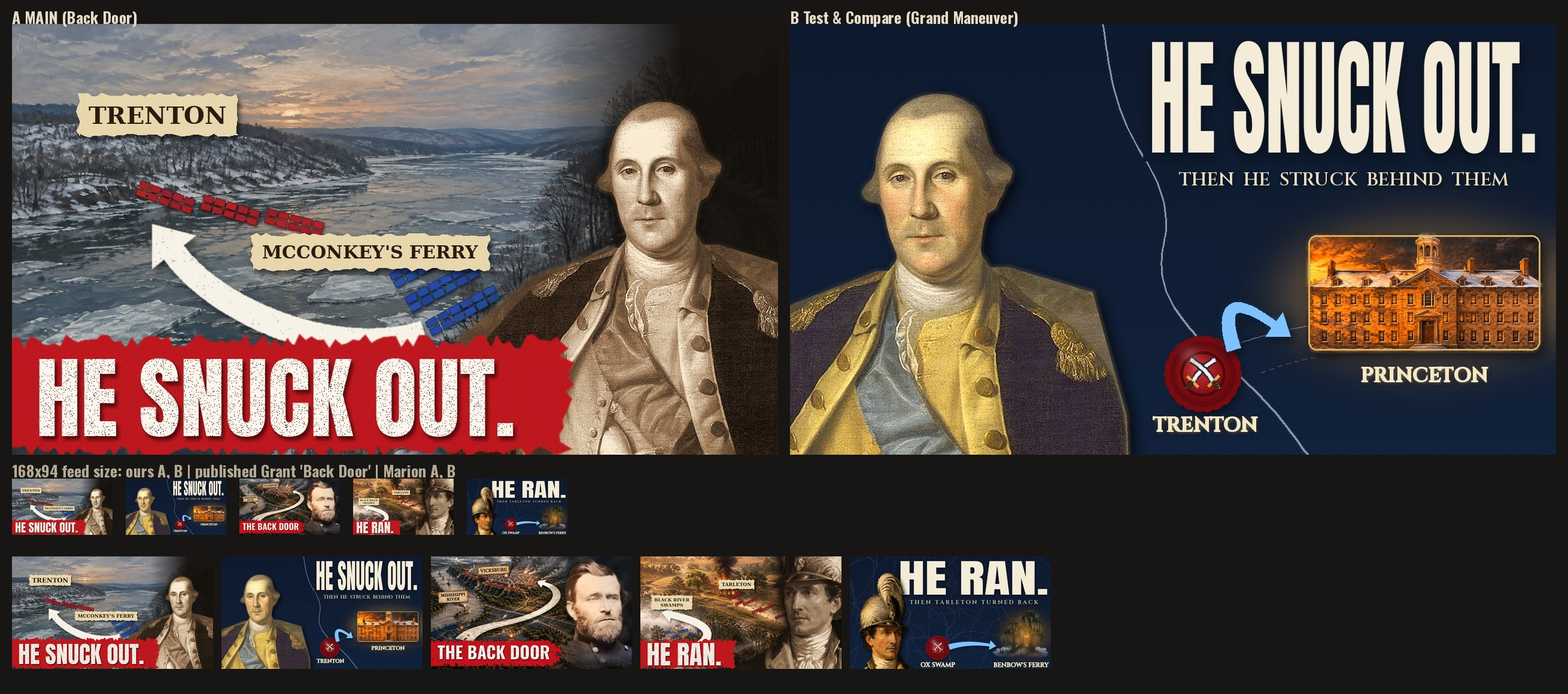
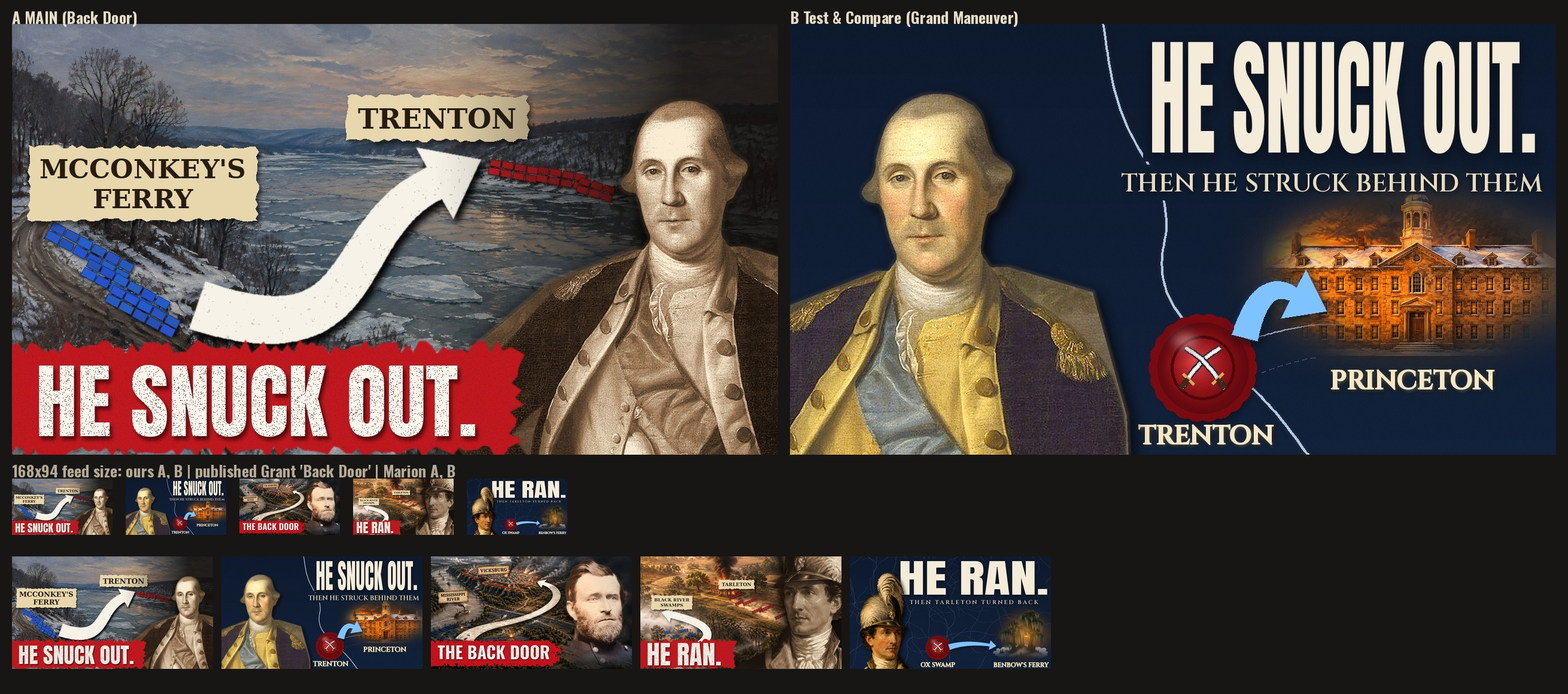
Washington: thumbnails v2 after critic 1
Claude-Session: https://claude.ai/code/session_011uJnjBmWWPVu63DLzFZfyj

diff --git a/washington/tools/make_thumbs_washington.py b/washington/tools/make_thumbs_washington.py
@@ -38,32 +38,36 @@ def place(im, b, x0, y0, rim_col, rim_side, shadow=0.75, rim=0.3):
     im.alpha_composite(b, (x0, y0)); im.alpha_composite(r, (x0, y0)); return im
 
 # ====================================== A: BACK DOOR ======================================
+def boat(im, c, ang, L=70):
+    x, y = c; ca, sa = math.cos(ang), math.sin(ang); lay = Image.new("RGBA", im.size, (0, 0, 0, 0)); d = ImageDraw.Draw(lay); sh = Image.new("RGBA", im.size, (0, 0, 0, 0)); ds = ImageDraw.Draw(sh)
+    pts = [(-L / 2, 0), (-L / 3, 8), (L / 3, 8), (L / 2, 0), (L / 3, -8), (-L / 3, -8)]; P = [(x + a * ca - b * sa, y + a * sa + b * ca) for a, b in pts]
+    ds.polygon([(p[0] + 4, p[1] + 6) for p in P], fill=(0, 0, 0, 170)); d.polygon(P, fill=(40, 28, 20, 255), outline=(120, 96, 70, 255))
+    im = Image.alpha_composite(im, sh.filter(ImageFilter.GaussianBlur(3))); return Image.alpha_composite(im, lay)
+
 def variant_a():
-    im = Image.open(T + "bg_vidiq_delaware.jpg").convert("RGB").resize((W, H), Image.LANCZOS)
-    im = ImageEnhance.Contrast(ImageEnhance.Color(im).enhance(0.85)).enhance(1.12).convert("RGBA")
-    RED, BLUE = (176, 34, 40), (38, 78, 168)
-    # Hessian garrison on the far (Trenton) bank, upper left, along the snowy ridge
-    for (x, y, c, r, a_) in [(215, 262, 5, 2, 0.34), (322, 285, 5, 2, 0.30), (428, 308, 5, 2, 0.26)]:
-        im = formation(im, (x, y), RED, c, r, cw=17, ch=11, gap=3, ang=a_)
-    # Washington's column landing on the near bank, on the snowy slope at lower right
-    for (x, y, c, r) in [(630, 418, 6, 2), (656, 458, 6, 2), (690, 498, 6, 2)]:
-        im = formation(im, (x, y), BLUE, c, r, cw=19, ch=12, gap=3, ang=-0.5)
-    # ONE sweep arrow: ferry landing -> across the river -> round to the far bank
-    im = grunge_arrow(im, [(690, 520), (540, 570), (300, 470), (250, 345)], 50, 40)
-    im = parchment(im, (400, 352), ["MCCONKEY'S FERRY"], 30); im = parchment(im, (110, 118), ["TRENTON"], 40)
+    # background MIRRORED so the crossing reads west (PA, left) -> east (NJ, right); Trenton lies downstream (far, right bank)
+    im = ImageOps.mirror(Image.open(T + "bg_vidiq_delaware.jpg").convert("RGB")).resize((W, H), Image.LANCZOS)
+    im = ImageEnhance.Contrast(ImageEnhance.Color(im).enhance(1.0)).enhance(1.2); im = ImageEnhance.Brightness(im).enhance(0.9).convert("RGBA")
+    RED, BLUE = (200, 30, 36), (40, 92, 205)
+    for (x, y, c, r, a_) in [(800, 226, 4, 2, 0.18), (880, 238, 4, 2, 0.18), (950, 256, 3, 2, 0.3)]:   # Hessians at Trenton, NJ bank ridge
+        im = formation(im, (x, y), RED, c, r, cw=18, ch=11, gap=3, ang=a_)
+    for (x, y, c, r, a_) in [(70, 330, 6, 2, 0.5), (130, 392, 6, 2, 0.5), (170, 436, 5, 2, 0.5)]:      # Washington at McConkey's Ferry, PA bank slope
+        im = formation(im, (x, y), BLUE, c, r, cw=23, ch=14, gap=3, ang=a_)
+    im = grunge_arrow(im, [(310, 470), (640, 580), (520, 290), (772, 246)], 84, 58, shadow=(235, 7, 10, 5))
+    im = parchment(im, (28, 205), ["MCCONKEY'S", "FERRY"], 44); im = parchment(im, (560, 120), ["TRENTON"], 46)
     pan = Image.new("RGBA", (W, H), (0, 0, 0, 0)); pd = ImageDraw.Draw(pan)
-    for x in range(880, W): pd.line([(x, 0), (x, H)], fill=(18, 14, 10, int(240 * min(1, (x - 880) / 240))))
+    for x in range(700, W): pd.line([(x, 0), (x, H)], fill=(16, 12, 9, int(215 * min(1, ((x - 700) / 420) ** 1.2))))
     im = Image.alpha_composite(im, pan)
-    b, (fx, fy) = cutout(235, "sepia"); im = place(im, b, int(1075 - fx), int(250 - fy), (255, 200, 140), "left", shadow=0.85)
-    f = ImageFont.truetype(AN, 150); tw = ImageDraw.Draw(im).textlength(WORD, font=f)
-    bx0, by0, bx1, by1 = -10, 530, int(40 + tw + 70), 714; r = np.random.default_rng(8)
+    b, (fx, fy) = cutout(240, "sepia"); im = place(im, b, int(1115 - fx), int(250 - fy), (255, 200, 140), "left", shadow=0.85)
+    f = ImageFont.truetype(AN, 138); tw = ImageDraw.Draw(im).textlength(WORD, font=f)
+    bx0, by0, bx1, by1 = -10, 540, int(40 + tw + 50), 714; r = np.random.default_rng(8)
     m = Image.new("L", (W, H), 0); top = [(x, by0 + int(r.integers(-12, 13))) for x in range(bx0, bx1 + 1, 10)]; bot = [(x, by1 + int(r.integers(-10, 11))) for x in range(bx1, bx0 - 1, -10)]
     right = [(bx1 + int(r.integers(0, 30)), y) for y in range(by0, by1 + 1, 12)]
     ImageDraw.Draw(m).polygon(top + right + bot, fill=255)
     band = Image.new("RGBA", (W, H), (192, 24, 30, 255)); n = Image.effect_noise((W, H), 40).convert("L")
     band = Image.composite(Image.new("RGBA", (W, H), (160, 16, 22, 255)), band, n.point(lambda v: 110 if v > 160 else 0))
     im.paste(band, (0, 0), m.filter(ImageFilter.GaussianBlur(1)))
-    tm = Image.new("L", (W, H), 0); ImageDraw.Draw(tm).text((40, 625), WORD, font=f, fill=255, anchor="lm")
+    tm = Image.new("L", (W, H), 0); ImageDraw.Draw(tm).text((40, 630), WORD, font=f, fill=255, anchor="lm")
     tm = ImageChops.multiply(tm, Image.effect_noise((W, H), 70).convert("L").point(lambda v: 0 if v > 238 else 255))
     sh = Image.new("RGBA", (W, H), (0, 0, 0, 0)); sh.paste(Image.new("RGBA", (W, H), (40, 0, 0, 180)), (4, 6), tm); im = Image.alpha_composite(im, sh.filter(ImageFilter.GaussianBlur(3)))
     im.paste(Image.new("RGBA", (W, H), (250, 246, 238, 255)), (0, 0), tm)
@@ -75,15 +79,15 @@ def variant_b():
     n = Image.effect_noise((W, H), 22).convert("RGB"); base = Image.blend(base, ImageChops.overlay(base, n), 0.12); im = base.convert("RGBA")
     f0 = ImageFont.truetype(AN, 215); tmp = Image.new("L", (2000, 330), 0); ImageDraw.Draw(tmp).text((0, 0), WORD, font=f0, fill=255); glyph = tmp.crop(tmp.getbbox())
     glyph = glyph.resize((min(640, int(glyph.width * 1.3)), glyph.height), Image.LANCZOS); gx, gy = int(925 - glyph.width / 2), 28
-    sub = TWIST; fs = ImageFont.truetype(SER, 31); s = " ".join(" ".join(w) if False else w for w in sub.split()); s = "  ".join(sub.split()); sy_ = gy + glyph.height + 22
-    tm = Image.new("L", (W, H), 0); tm.paste(glyph, (gx, gy)); ImageDraw.Draw(tm).text((925, sy_), s, font=fs, fill=255, anchor="ma")
+    sub = TWIST; fs = ImageFont.truetype(SER, 42); s = " ".join(" ".join(w) if False else w for w in sub.split()); s = " ".join(sub.split()); sy_ = gy + glyph.height + 22
+    tm = Image.new("L", (W, H), 0); tm.paste(glyph, (gx, gy)); ImageDraw.Draw(tm).text((905, sy_), s, font=fs, fill=255, anchor="ma")
     # faint hairline rivers: Delaware (down the right-centre), Assunpink (short branch), roads to Princeton (dashed hairlines)
     lay = Image.new("RGBA", (W, H), (0, 0, 0, 0)); d = ImageDraw.Draw(lay)
     def chaikin(p, n=4):
         for _ in range(n): p = [p[0]] + [q for a, b in zip(p, p[1:]) for q in ((0.75 * a[0] + 0.25 * b[0], 0.75 * a[1] + 0.25 * b[1]), (0.25 * a[0] + 0.75 * b[0], 0.25 * a[1] + 0.75 * b[1]))] + [p[-1]]
         return p
     delaware = chaikin([(520, -20), (545, 150), (640, 300), (610, 430), (690, 540), (790, 620), (880, 740)])
-    d.line(delaware, fill=(207, 228, 255, 150), width=3, joint="curve"); d.line(chaikin([(705, 548), (790, 520), (880, 500), (960, 505)]), fill=(207, 228, 255, 140), width=2)  # Assunpink
+    d.line(delaware, fill=(207, 228, 255, 215), width=4, joint="curve"); d.line(chaikin([(705, 548), (790, 520), (880, 500), (960, 505)]), fill=(207, 228, 255, 200), width=3)  # Assunpink
     for _ in range(0): pass
     g = lay.filter(ImageFilter.GaussianBlur(5)); lay = Image.alpha_composite(g, lay)
     rd = Image.new("RGBA", (W, H), (0, 0, 0, 0)); rdd = ImageDraw.Draw(rd)
@@ -93,25 +97,25 @@ def variant_b():
         for k in range(int(L // 14)): rdd.line([(x0 + (x1 - x0) * k * 14 / L, y0 + (y1 - y0) * k * 14 / L), (x0 + (x1 - x0) * (k * 14 + 7) / L, y0 + (y1 - y0) * (k * 14 + 7) / L)], fill=(190, 205, 225, 90), width=2)
     lay = Image.alpha_composite(lay, rd)
     lay.putalpha(ImageChops.subtract(lay.split()[3], tm.filter(ImageFilter.MaxFilter(31)))); im = Image.alpha_composite(im, lay)
-    sx, sy = 690, 585
+    sx, sy = 690, 575
     # payoff = painted Nassau Hall (vidIQ), crop of the building, soft vignette + thin gold frame
-    fr = Image.open(T + "icon_vidiq_nassau.jpg").convert("RGB").crop((170, 150, 1830, 1000)); fw, fh = 400, 205; fr = fr.resize((fw, fh), Image.LANCZOS)
+    fr = Image.open(T + "icon_vidiq_nassau.jpg").convert("RGB").crop((170, 150, 1830, 1000)); fw, fh = 500, 270; fr = fr.resize((fw, fh), Image.LANCZOS)
     fr = ImageEnhance.Contrast(ImageEnhance.Color(fr).enhance(1.1)).enhance(1.05)
-    msk = Image.new("L", (fw, fh), 0); ImageDraw.Draw(msk).rounded_rectangle([6, 6, fw - 7, fh - 7], radius=14, fill=255); msk = msk.filter(ImageFilter.GaussianBlur(3))
-    ix, iy = 1060, 450; px, py = int(ix - fw / 2), int(iy - fh / 2); fr = fr.convert("RGBA"); fr.putalpha(msk)
+    msk = Image.new("L", (fw, fh), 0); ImageDraw.Draw(msk).ellipse([36, 22, fw - 37, fh - 23], fill=255); msk = msk.filter(ImageFilter.GaussianBlur(24))
+    ix, iy = 1040, 420; px, py = int(ix - fw / 2), int(iy - fh / 2); fr = fr.convert("RGBA"); fr.putalpha(msk)
     bloom = Image.new("RGBA", (W, H), (0, 0, 0, 0)); ImageDraw.Draw(bloom).ellipse([ix - 280, iy - 150, ix + 280, iy + 150], fill=(255, 170, 70, 80)); im = Image.alpha_composite(im, bloom.filter(ImageFilter.GaussianBlur(45)))
     shd = Image.new("RGBA", (W, H), (0, 0, 0, 0)); sb_ = Image.new("RGBA", fr.size, (0, 0, 0, 255)); sb_.putalpha(msk.point(lambda v: int(v * 0.7))); shd.alpha_composite(sb_, (px + 6, py + 10)); im = Image.alpha_composite(im, shd.filter(ImageFilter.GaussianBlur(9)))
-    im.alpha_composite(fr, (px, py)); ImageDraw.Draw(im).rounded_rectangle([px + 6, py + 6, px + fw - 7, py + fh - 7], radius=14, outline=(214, 176, 96, 255), width=3)
-    im = glossy_seal(im, (sx, sy), 54)
+    im.alpha_composite(fr, (px, py))
+    im = glossy_seal(im, (sx, sy), 76)
     # ONE glowing blue arrow: from Trenton round (behind the British) to Princeton
-    im = taper_arrow(im, [(sx + 52, sy - 40), (sx + 10, sy - 175), (px - 14, py + fh - 20)], 24, 13, (126, 195, 255, 255), glow=(70, 150, 240, 190))
-    fl = ImageFont.truetype(SER, 34)
-    for t, (x, y) in [("TRENTON", (sx + 5, sy + 62)), ("PRINCETON", (ix, py + fh + 12))]:
+    im = taper_arrow(im, [(sx + 70, sy - 50), (sx + 100, sy - 170), (px + 70, py + fh - 90)], 44, 24, (126, 195, 255, 255), glow=(70, 150, 240, 190))
+    fl = ImageFont.truetype(SER, 44)
+    for t, (x, y) in [("TRENTON", (sx + 5, sy + 84)), ("PRINCETON", (ix, py + fh + 12))]:
         g = Image.new("RGBA", (W, H), (0, 0, 0, 0)); ImageDraw.Draw(g).text((x, y), t, font=fl, fill=(255, 210, 140, 160), anchor="ma"); im = Image.alpha_composite(im, g.filter(ImageFilter.GaussianBlur(6)))
         im = text_shadow(im, (x, y), t, fl, (246, 232, 196), "ma", off=(2, 3), blur=3, op=220, stroke_width=1, stroke_fill=(246, 232, 196))
     sh = Image.new("RGBA", (W, H), (0, 0, 0, 0)); shg = Image.new("RGBA", glyph.size, (0, 0, 0, 255)); shg.putalpha(glyph.point(lambda v: int(v * 0.5))); sh.alpha_composite(shg, (gx, gy + 8))
     im = Image.alpha_composite(im, sh.filter(ImageFilter.GaussianBlur(12))); col = Image.new("RGBA", glyph.size, (244, 236, 216, 255)); col.putalpha(glyph); im.alpha_composite(col, (gx, gy))
-    im = text_shadow(im, (925, sy_), s, fs, (232, 220, 192), "ma", off=(0, 3), blur=4, op=180)
+    im = text_shadow(im, (905, sy_), s, fs, (232, 220, 192), "ma", off=(0, 3), blur=4, op=180)
     b, (fx, fy) = cutout(285, "warm"); x0, y0 = int(235 - fx), int(262 - fy)
     im = place(im, b, x0, y0, (255, 200, 140), "right", shadow=0.85)
     out = "youtube/thumb_B_HE_SNUCK_OUT.jpg"; im.convert("RGB").save(out, quality=94); return out

diff --git a/washington/tools/_jh.py b/washington/tools/_jh.py
@@ -14,7 +14,7 @@ def formation(im, c, col, cols, rows, cw=11, ch=7, gap=3, ang=-0.42):
             ds.polygon([(p[0] + 2, p[1] + 3) for p in pts], fill=(0, 0, 0, 150))
             shade = tuple(int(v_ * rng.uniform(0.85, 1.05)) for v_ in col); d.polygon(pts, fill=shade + (255,), outline=tuple(int(v_ * 0.55) for v_ in col) + (255,))
     im = Image.alpha_composite(im, sh.filter(ImageFilter.GaussianBlur(2))); return Image.alpha_composite(im, lay)
-def grunge_arrow(im, pts, w0, w1):
+def grunge_arrow(im, pts, w0, w1, shadow=(140, 5, 8, 6)):
     N = 140; P = []
     for t in np.linspace(0, 1, N):
         # cubic bezier through 4 points
@@ -29,7 +29,7 @@ def grunge_arrow(im, pts, w0, w1):
     m = Image.new("L", im.size, 0); ImageDraw.Draw(m).polygon(poly, fill=255)
     tex = Image.effect_noise(im.size, 60).convert("L").filter(ImageFilter.GaussianBlur(1.2)); tex = ImageOps.autocontrast(tex)
     col = Image.composite(Image.new("RGBA", im.size, (214, 206, 190, 255)), Image.new("RGBA", im.size, (246, 242, 232, 255)), tex.point(lambda v: 255 if v < 70 else 0))
-    sh = Image.new("RGBA", im.size, (0, 0, 0, 0)); sh.paste(Image.new("RGBA", im.size, (0, 0, 0, 140)), (5, 8), m); im = Image.alpha_composite(im, sh.filter(ImageFilter.GaussianBlur(6)))
+    sh = Image.new("RGBA", im.size, (0, 0, 0, 0)); sh.paste(Image.new("RGBA", im.size, (0, 0, 0, shadow[0])), (shadow[1], shadow[2]), m); im = Image.alpha_composite(im, sh.filter(ImageFilter.GaussianBlur(shadow[3])))
     out = im.copy(); out.paste(col, (0, 0), m.filter(ImageFilter.GaussianBlur(0.8))); return out
 def parchment(im, xy, lines, size=30):
     f = ImageFont.truetype(SERB, size); d0 = ImageDraw.Draw(im); w = max(d0.textlength(l, font=f) for l in lines); h = len(lines) * (size + 6)
